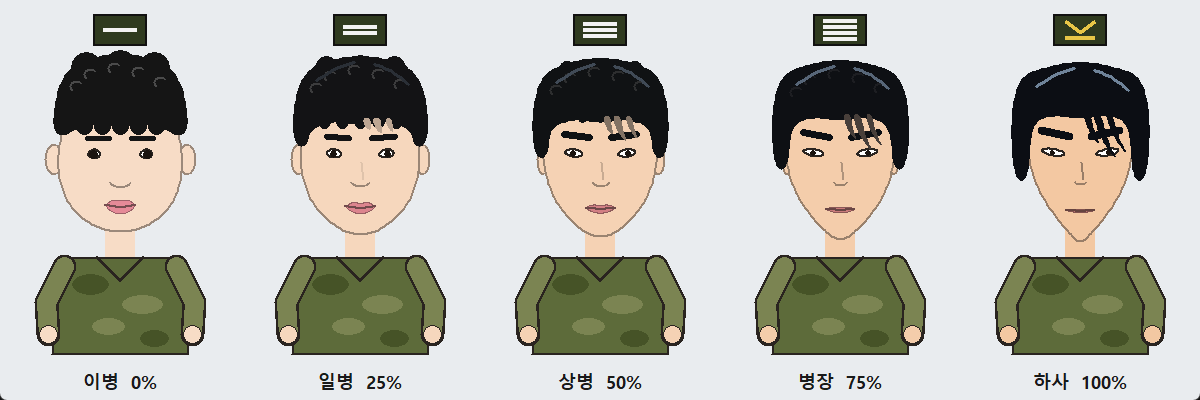
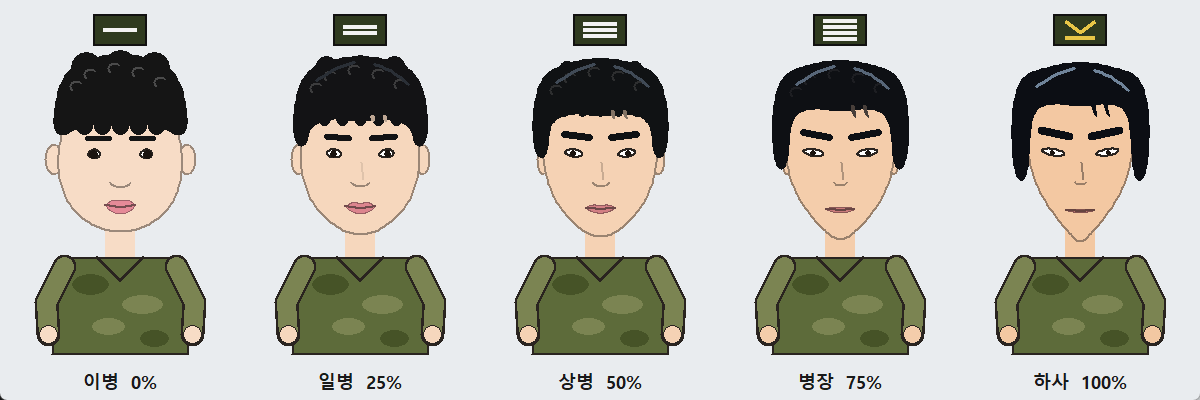
화면 다듬기: 총알 크기·이름 글자, 앞머리 2가닥, 빈 판 안내, 문구 색, exe 빌드 스크립트

diff --git a/tests/tools/capture_screens.py b/tests/tools/capture_screens.py
@@ -1,33 +1,39 @@
 # 확인용 화면 캡처: 무작위를 고정한 게임을 각 화면으로 옮기며 창만 캡처해 _captures/에 저장한다.
+# 함께 images/dance_preview.png(춤 핵심 자세 3개)와 images/ranking.png(실제로 4판 한 기록)도 만든다.
 # _captures/는 제출하지 않는다(.gitignore). Windows 전용(PowerShell로 화면 캡처).
 # 실행 (앱 폴더에서): python tests/tools/capture_screens.py
 import os
+import random
+import shutil
 import subprocess
 import sys
 import tempfile
 import tkinter as tk
+from types import SimpleNamespace
 
 HERE = os.path.dirname(os.path.abspath(__file__))
 APP_DIR = os.path.abspath(os.path.join(HERE, "..", ".."))
 sys.path.insert(0, os.path.join(APP_DIR, "src"))
 sys.path.insert(0, os.path.join(APP_DIR, "tests"))
 
+import character  # noqa: E402
 import db  # noqa: E402
 import ui  # noqa: E402
 from helpers import PatternRng, play_round, pump, start, wait_until  # noqa: E402
 
 OUT = os.path.join(APP_DIR, "_captures")
+IMAGES = os.path.join(APP_DIR, "images")
 ONE_LINE = ["보통탄", "보통탄", "보통탄", "연습탄", "예광탄", "철갑탄", "예광탄", "연습탄", "보통탄"]
 BIG = "1000x700"
 
 
-def shot(app, name):
-    """창 안쪽을 그대로 캡처해 _captures/<name>.png로 저장한다."""
+def shot(app, name, folder=OUT):
+    """창 안쪽을 그대로 캡처해 <folder>/<name>.png로 저장한다."""
     root = app.root
     root.lift()
     pump(app, 400)
     x, y, w, h = root.winfo_rootx(), root.winfo_rooty(), root.winfo_width(), root.winfo_height()
-    path = os.path.join(OUT, name + ".png")
+    path = os.path.join(folder, name + ".png")
     script = ("Add-Type -AssemblyName System.Drawing; $b = New-Object System.Drawing.Bitmap {w}, {h}; "
               "$g = [System.Drawing.Graphics]::FromImage($b); $g.CopyFromScreen({x}, {y}, 0, 0, $b.Size); "
               "$b.Save('{p}', [System.Drawing.Imaging.ImageFormat]::Png)").format(w=w, h=h, x=x, y=y, p=path)
@@ -99,6 +105,52 @@ def main():
         small.show_game()
         shot(small, "10_rank_hasa")
         small.root.destroy()
+
+        real_games(os.path.join(tmp, "real.db"))
+    dance_preview()
+    shutil.copy(os.path.join(OUT, "02_game.png"), os.path.join(IMAGES, "game.png"))
+    print("복사: images/game.png ← _captures/02_game.png")
+
+
+def real_games(path):
+    """규칙 그대로(진짜 무작위) 4판을 끝까지 하고, 쌓인 랭킹을 images/ranking.png로 찍는다."""
+    root = tk.Tk()
+    root.geometry(BIG + "+20+20")
+    root.attributes("-topmost", True)
+    app = ui.App(root, path, rng=random.Random(2026), time_scale=0.02)
+    for name in ["박산", "이병박산", "하사가될래", "탄피줍기"]:
+        start(app, name)
+        while True:
+            play_round(app)
+            if app.screen == "gameover":
+                break
+            app.shop_buttons[0].invoke()
+        app.menu_button.invoke()
+    app.ranking_button.invoke()
+    shot(app, "ranking", folder=IMAGES)
+    shutil.copy(os.path.join(IMAGES, "ranking.png"), os.path.join(OUT, "07_ranking_real.png"))
+    root.destroy()
+
+
+def dance_preview():
+    """춤 핵심 자세 3개(준비/튕김/마지막)를 하사 얼굴로 나란히 그려 images/dance_preview.png로 찍는다."""
+    root = tk.Tk()
+    root.title("춤 핵심 자세")
+    root.attributes("-topmost", True)
+    root.geometry("+20+20")
+    steps = character.DANCE_STEPS
+    poses = [("준비", steps[0][1]), ("튕김", steps[1][1]), ("마지막", steps[-1][1])]
+    canvas = tk.Canvas(root, width=character.WIDTH * 3, height=character.HEIGHT + 40, bg="#e9ecef",
+                       highlightthickness=0)
+    canvas.pack()
+    for i, (label, pose) in enumerate(poses):
+        x = i * character.WIDTH
+        character.draw_character(canvas, x, 0, 1.0, "하사", pose=pose, tag="d" + str(i))
+        canvas.create_text(x + character.WIDTH / 2, character.HEIGHT + 20, text=label,
+                           font=(ui.FONT, -18, "bold"), fill="#1a1a1a")
+
+    shot(SimpleNamespace(root=root), "dance_preview", folder=IMAGES)
+    root.destroy()
 
 
 def play_round_until_dance(app):

diff --git a/tests/test_v2.py b/tests/test_v2.py
@@ -1,0 +1,79 @@
+# 2차 화면 다듬기 테스트 (사장 캡처 검토 결과): 총알 크기·글자, 앞머리 가닥, 빈 판 안내, 랭킹 문구 색.
+import tkinter as tk
+import tkinter.font as tkfont
+
+import pytest
+
+import character
+import symbols
+import ui
+from helpers import PatternRng, start, wait_until
+
+GRAY = "#6b6b6b"
+RED = "#b00020"
+
+
+@pytest.mark.parametrize("kind", ["보통탄", "예광탄"])
+def test_bullet_is_about_60_percent_of_cell(tk_root, kind):
+    """기본 총알(보통탄·예광탄)은 100px 칸 높이의 약 60%다."""
+    c = tk.Canvas(tk_root, width=200, height=200)
+    symbols.draw_bullet(c, kind, 0, 0, 100, tag="b")
+    shapes = [i for i in c.find_withtag("b") if c.type(i) != "text"]
+    top = min(c.bbox(i)[1] for i in shapes)
+    bottom = max(c.bbox(i)[3] for i in shapes)
+    assert 55 <= bottom - top <= 68
+
+
+@pytest.mark.parametrize("size", [80, 100])
+def test_bullet_label_big_and_bold(tk_root, size):
+    """이름 글자는 굵고, 가장 작은 칸(80px)에서도 14px 이상이다."""
+    c = tk.Canvas(tk_root, width=200, height=200)
+    symbols.draw_bullet(c, "연습탄", 0, 0, size, tag="b")
+    text = [i for i in c.find_withtag("b") if c.type(i) == "text"][0]
+    font = tkfont.Font(root=tk_root, font=c.itemcget(text, "font"))
+    assert font.actual("weight") == "bold"
+    assert abs(font.actual("size")) >= 14 or font.metrics("linespace") >= 18
+
+
+@pytest.mark.parametrize("ratio", [0.25, 0.5, 0.75, 1.0])
+def test_strands_end_above_brows(tk_root, ratio):
+    """앞머리 가닥은 이마에서 시작해 눈썹 위에서 끝난다 (눈을 가로지르지 않는다)."""
+    c = tk.Canvas(tk_root, width=400, height=500)
+    character.draw_character(c, 0, 0, ratio, "상병", tag="x")
+    strands = c.find_withtag("x&&strand")
+    brows = c.find_withtag("x&&brow")
+    assert len(brows) == 2
+    if strands:
+        assert c.bbox("x&&strand")[3] <= min(c.bbox(b)[1] for b in brows)
+
+
+def test_two_thin_strands_at_full_ratio(tk_root):
+    """100%(하사)에서 앞머리 가닥은 2개다."""
+    c = tk.Canvas(tk_root, width=400, height=500)
+    character.draw_character(c, 0, 0, 1.0, "하사", tag="x")
+    assert len(c.find_withtag("x&&strand")) == 2
+
+
+def test_empty_board_hint_until_first_spin(tk_root, tmp_path):
+    """스핀 전 빈 판에는 옅은 회색 "스핀을 눌러 시작하세요"가 있고, 첫 스핀 때 사라진다."""
+    app = ui.App(tk_root, str(tmp_path / "game.db"), rng=PatternRng(PatternRng.WEAK), time_scale=0.01)
+    start(app)
+    hints = app.canvas.find_withtag("hint")
+    assert [app.canvas.itemcget(i, "text") for i in hints] == ["스핀을 눌러 시작하세요"]
+    assert app.canvas.itemcget(hints[0], "fill") == ui.HINT_GRAY
+    app.spin_button.invoke()
+    wait_until(app, lambda: not app.busy)
+    assert app.canvas.find_withtag("hint") == ()
+
+
+def test_ranking_message_colors(tk_root, tmp_path):
+    """"아직 기록이 없습니다"는 회색, 불러오기 실패는 빨간색."""
+    app = ui.App(tk_root, str(tmp_path / "game.db"), rng=PatternRng(PatternRng.WEAK), time_scale=0.01)
+    app.ranking_button.invoke()
+    assert app.ranking_message["fg"] == GRAY
+    broken = tmp_path / "broken.db"
+    broken.write_text("DB 아님 " * 40, encoding="utf-8")
+    app2 = ui.App(tk_root, str(broken), rng=PatternRng(PatternRng.WEAK), time_scale=0.01)
+    app2.ranking_button.invoke()
+    assert app2.ranking_message["text"] == "기록을 불러오지 못했습니다"
+    assert app2.ranking_message["fg"] == RED

diff --git a/src/character.py b/src/character.py
@@ -43,7 +43,7 @@ CHOISAN = {
     "face_top_w": 54, "cheek_w": 52, "jaw_w": 38, "chin_w": 10, "chin_y": 84,
     "skin": "#f3c8a2",
     # 머리: 검정, 젖은 듯한 질감, 이마와 한쪽 눈 위로 흘러내리는 앞머리 가닥
-    "hair": "#0c0e14", "hair_top": 100, "hair_side_w": 66, "hair_side_y": 20, "fringe_y": -46,
+    "hair": "#0c0e14", "hair_top": 100, "hair_side_w": 66, "hair_side_y": 20, "fringe_y": -58,
     "curl": 0.0, "strands": 1.0, "gloss": 1.0,
     # 귀: 머리에 가려 거의 안 보임
     "ear_show": 0.0,
@@ -206,7 +206,7 @@ def draw_head(canvas, f, p, at, flat, scale, tags, dy):
         inner = at(side * 11, f["brow_y"], HEAD_Y, dy)
         outer = at(side * (11 + f["brow_len"]), f["brow_y"] - f["brow_tilt"], HEAD_Y, dy)
         canvas.create_line(*inner, *outer, fill=f["hair"], width=f["brow_thick"] * scale,
-                           capstyle="round", tags=tags)
+                           capstyle="round", tags=tags + ("brow",))
 
     # 눈 (아몬드 모양 흰자 + 눈동자). squint가 작을수록 가늘게 뜬다.
     eye_h = f["eye_h"] * p["squint"]
@@ -279,19 +279,21 @@ def draw_hair(canvas, f, at, flat, scale, tags, dy):
 
 
 def draw_strands(canvas, f, at, flat, scale, tags, dy):
-    """이마와 오른쪽 눈 위로 흘러내리는 앞머리 가닥. 비율만큼 길어지고 진해진다."""
+    """이마에서 시작해 오른쪽 눈썹 위에서 끝나는 가는 앞머리 가닥 2개. 비율만큼 길어지고 진해진다."""
     if f["strands"] <= 0.02:
         return
     color = mix_color(f["skin"], f["hair"], f["strands"])
     root_y = f["fringe_y"] + 2
-    for sx, length, sweep, root_w in [(6, 30, 14, 7), (16, 46, 22, 8), (28, 40, 20, 6)]:
+    for sx, sweep, root_w in [(12, 5, 4), (24, 6, 3.5)]:
         end_x = sx + sweep * f["strands"]
-        end_y = root_y + length * f["strands"]
-        mid_x = sx + sweep * f["strands"] * 0.35
+        lowest = f["brow_y"] - f["brow_tilt"] - f["brow_thick"] - 4   # 눈썹 가장 높은 곳보다 넉넉히 위
+        end_y = root_y + (lowest - root_y) * f["strands"]
+        mid_x = sx + sweep * f["strands"] * 0.4
         mid_y = (root_y + end_y) / 2
         wedge = [(sx - root_w / 2, root_y - 4), (mid_x - root_w / 3, mid_y), (end_x, end_y),
                  (mid_x + root_w / 3, mid_y), (sx + root_w / 2, root_y - 4)]
-        canvas.create_polygon(flat(wedge, HEAD_Y, dy), fill=color, outline=color, smooth=True, tags=tags)
+        canvas.create_polygon(flat(wedge, HEAD_Y, dy), fill=color, outline=color, smooth=True,
+                              tags=tags + ("strand",))
 
 
 def draw_rank_badge(canvas, bx, by, rank_name, scale=1.0, tags=()):

diff --git a/src/symbols.py b/src/symbols.py
@@ -8,11 +8,11 @@ BULLET_ORDER = ["연습탄", "보통탄", "예광탄", "철갑탄", "황금탄"]
 #   length: 칸 안 그림 영역 높이에 대한 총알 길이 비율
 #   tip: 탄두 색, tip_end: 탄두 끝 색, case: 탄피 색, pointy: 뾰족한 탄두인지
 BULLETS = {
-    "연습탄": {"points": 1, "length": 0.6, "tip": "#3a6fd8", "tip_end": "#3a6fd8", "case": "#c9a64a", "pointy": False},
-    "보통탄": {"points": 2, "length": 0.8, "tip": "#b8693a", "tip_end": "#b8693a", "case": "#d4b04c", "pointy": False},
-    "예광탄": {"points": 3, "length": 0.8, "tip": "#b8693a", "tip_end": "#e02020", "case": "#d4b04c", "pointy": False},
+    "연습탄": {"points": 1, "length": 0.75, "tip": "#3a6fd8", "tip_end": "#3a6fd8", "case": "#c9a64a", "pointy": False},
+    "보통탄": {"points": 2, "length": 0.97, "tip": "#b8693a", "tip_end": "#b8693a", "case": "#d4b04c", "pointy": False},
+    "예광탄": {"points": 3, "length": 0.97, "tip": "#b8693a", "tip_end": "#e02020", "case": "#d4b04c", "pointy": False},
     "철갑탄": {"points": 5, "length": 1.0, "tip": "#7a7f87", "tip_end": "#111111", "case": "#d4b04c", "pointy": True},
-    "황금탄": {"points": 8, "length": 0.85, "tip": "#f5c518", "tip_end": "#f5c518", "case": "#e8b923", "pointy": False},
+    "황금탄": {"points": 8, "length": 0.95, "tip": "#f5c518", "tip_end": "#f5c518", "case": "#e8b923", "pointy": False},
 }
 
 # 처음 덱에 들어 있는 총알 개수 (황금탄은 상점에서만 얻는다)
@@ -30,15 +30,15 @@ OUTLINE = "#2b2b2b"
 def draw_bullet(canvas, kind, x, y, size, tag=""):
     """(x, y)에서 시작하는 size×size 칸 안에 총알 그림과 이름 글자를 그린다."""
     info = BULLETS[kind]
-    margin = HIGHLIGHT_WIDTH + 4
-    label_px = max(11, size // 8)
+    margin = HIGHLIGHT_WIDTH + 3
+    label_px = max(14, size // 7)
     canvas.create_text(x + size / 2, y + size - margin, text=kind, anchor="s",
                        font=("Malgun Gothic", -label_px, "bold"), fill="#1a1a1a", tags=tag)
 
     area_top = y + margin
-    area_bottom = y + size - margin - label_px - 6
-    height = (area_bottom - area_top) * info["length"]
-    width = max(10, size * 0.2)
+    area_bottom = y + size - margin - label_px * 1.45 - 2   # 글자 줄 높이만큼 비워 둔다
+    height = (area_bottom - area_top) * info["length"]       # 보통탄이 칸 높이의 약 60%
+    width = max(12, size * 0.22)
     cx = x + size / 2
     left, right = cx - width / 2, cx + width / 2
 

diff --git a/tests/tools/make_previews.py b/tests/tools/make_previews.py
@@ -1,5 +1,5 @@
 # 확인용 캡처 만들기: 계급 5단계 캐릭터를 나란히 그린 창을 띄우고 그 창만 캡처해
-# images/faces_preview.png (컬러)와 images/faces_preview_gray.png (흑백)로 저장한다.
+# images/faces_preview.png로 저장한다. (흑백본 faces_preview_gray.png는 처음 한 번만 만들었다)
 # Windows 전용(PowerShell로 화면 캡처). 실행 (앱 폴더에서): python tests/tools/make_previews.py
 import os
 import subprocess
@@ -21,15 +21,6 @@ $bmp = New-Object System.Drawing.Bitmap {w}, {h}
 $g = [System.Drawing.Graphics]::FromImage($bmp)
 $g.CopyFromScreen({x}, {y}, 0, 0, $bmp.Size)
 $bmp.Save('{color}', [System.Drawing.Imaging.ImageFormat]::Png)
-$gray = New-Object System.Drawing.Bitmap {w}, {h}
-$g2 = [System.Drawing.Graphics]::FromImage($gray)
-$m = New-Object System.Drawing.Imaging.ColorMatrix(,[single[][]](
-  [single[]](0.299, 0.299, 0.299, 0, 0), [single[]](0.587, 0.587, 0.587, 0, 0),
-  [single[]](0.114, 0.114, 0.114, 0, 0), [single[]](0, 0, 0, 1, 0), [single[]](0, 0, 0, 0, 1)))
-$a = New-Object System.Drawing.Imaging.ImageAttributes
-$a.SetColorMatrix($m)
-$g2.DrawImage($bmp, (New-Object System.Drawing.Rectangle 0, 0, {w}, {h}), 0, 0, {w}, {h}, [System.Drawing.GraphicsUnit]::Pixel, $a)
-$gray.Save('{gray}', [System.Drawing.Imaging.ImageFormat]::Png)
 """
 
 
@@ -60,13 +51,12 @@ def main():
     def save(canvas):
         script = CAPTURE.format(x=canvas.winfo_rootx(), y=canvas.winfo_rooty(),
                                 w=canvas.winfo_width(), h=canvas.winfo_height(),
-                                color=os.path.join(IMAGES, "faces_preview.png"),
-                                gray=os.path.join(IMAGES, "faces_preview_gray.png"))
+                                color=os.path.join(IMAGES, "faces_preview.png"))
         subprocess.run(["powershell", "-NoProfile", "-Command", script], check=True)
 
     root.after(1500, capture)
     root.mainloop()
-    print("저장:", os.path.join(IMAGES, "faces_preview.png"), "/", os.path.join(IMAGES, "faces_preview_gray.png"))
+    print("저장:", os.path.join(IMAGES, "faces_preview.png"))
 
 
 if __name__ == "__main__":

diff --git a/src/ui.py b/src/ui.py
@@ -41,6 +41,9 @@ BG = "#e8ecdf"
 ARMY = "#4b5320"
 PANEL = "#fbfbf7"
 INK = "#1a1a1a"
+HINT_GRAY = "#a0a0a0"   # 빈 판 안내 글씨
+NOTE_GRAY = "#6b6b6b"   # 오류가 아닌 안내 문구
+ERROR_RED = "#b00020"   # 오류 문구에만 쓴다
 
 
 class App:
@@ -220,6 +223,9 @@ class App:
                 draw_bullet(self.canvas, board[i], x, y, CELL, tag=("board", "cell"))
             if i in lit:
                 draw_highlight(self.canvas, x, y, CELL, tag=("board", "cell"))
+        if not board:
+            self.canvas.create_text(BOARD_X + 1.5 * CELL, BOARD_Y + 1.5 * CELL, text="스핀을 눌러 시작하세요",
+                                    font=(FONT, 16, "bold"), fill=HINT_GRAY, tags=("board", "cell", "hint"))
 
     def draw_hero(self, pose=None):
         """지금 계급의 얼굴과 계급장으로 캐릭터를 다시 그린다."""
@@ -414,7 +420,8 @@ class App:
             for n, r in enumerate(rows, 1):
                 self.ranking_tree.insert("", "end", values=(n, r["name"], r["score"], r["round_reached"],
                                                             r["growth_stage"], r["played_at"]))
-        self.ranking_message = tk.Label(self.frame, text=message, font=(FONT, 13), bg=BG, fg="#b00020")
+        color = NOTE_GRAY if message == MSG_NO_RECORDS else ERROR_RED
+        self.ranking_message = tk.Label(self.frame, text=message, font=(FONT, 13), bg=BG, fg=color)
         self.ranking_message.pack(pady=6)
         self.ranking_back_button = self.button(self.frame, "뒤로", self.show_start)
         self.ranking_back_button.pack(pady=6)
